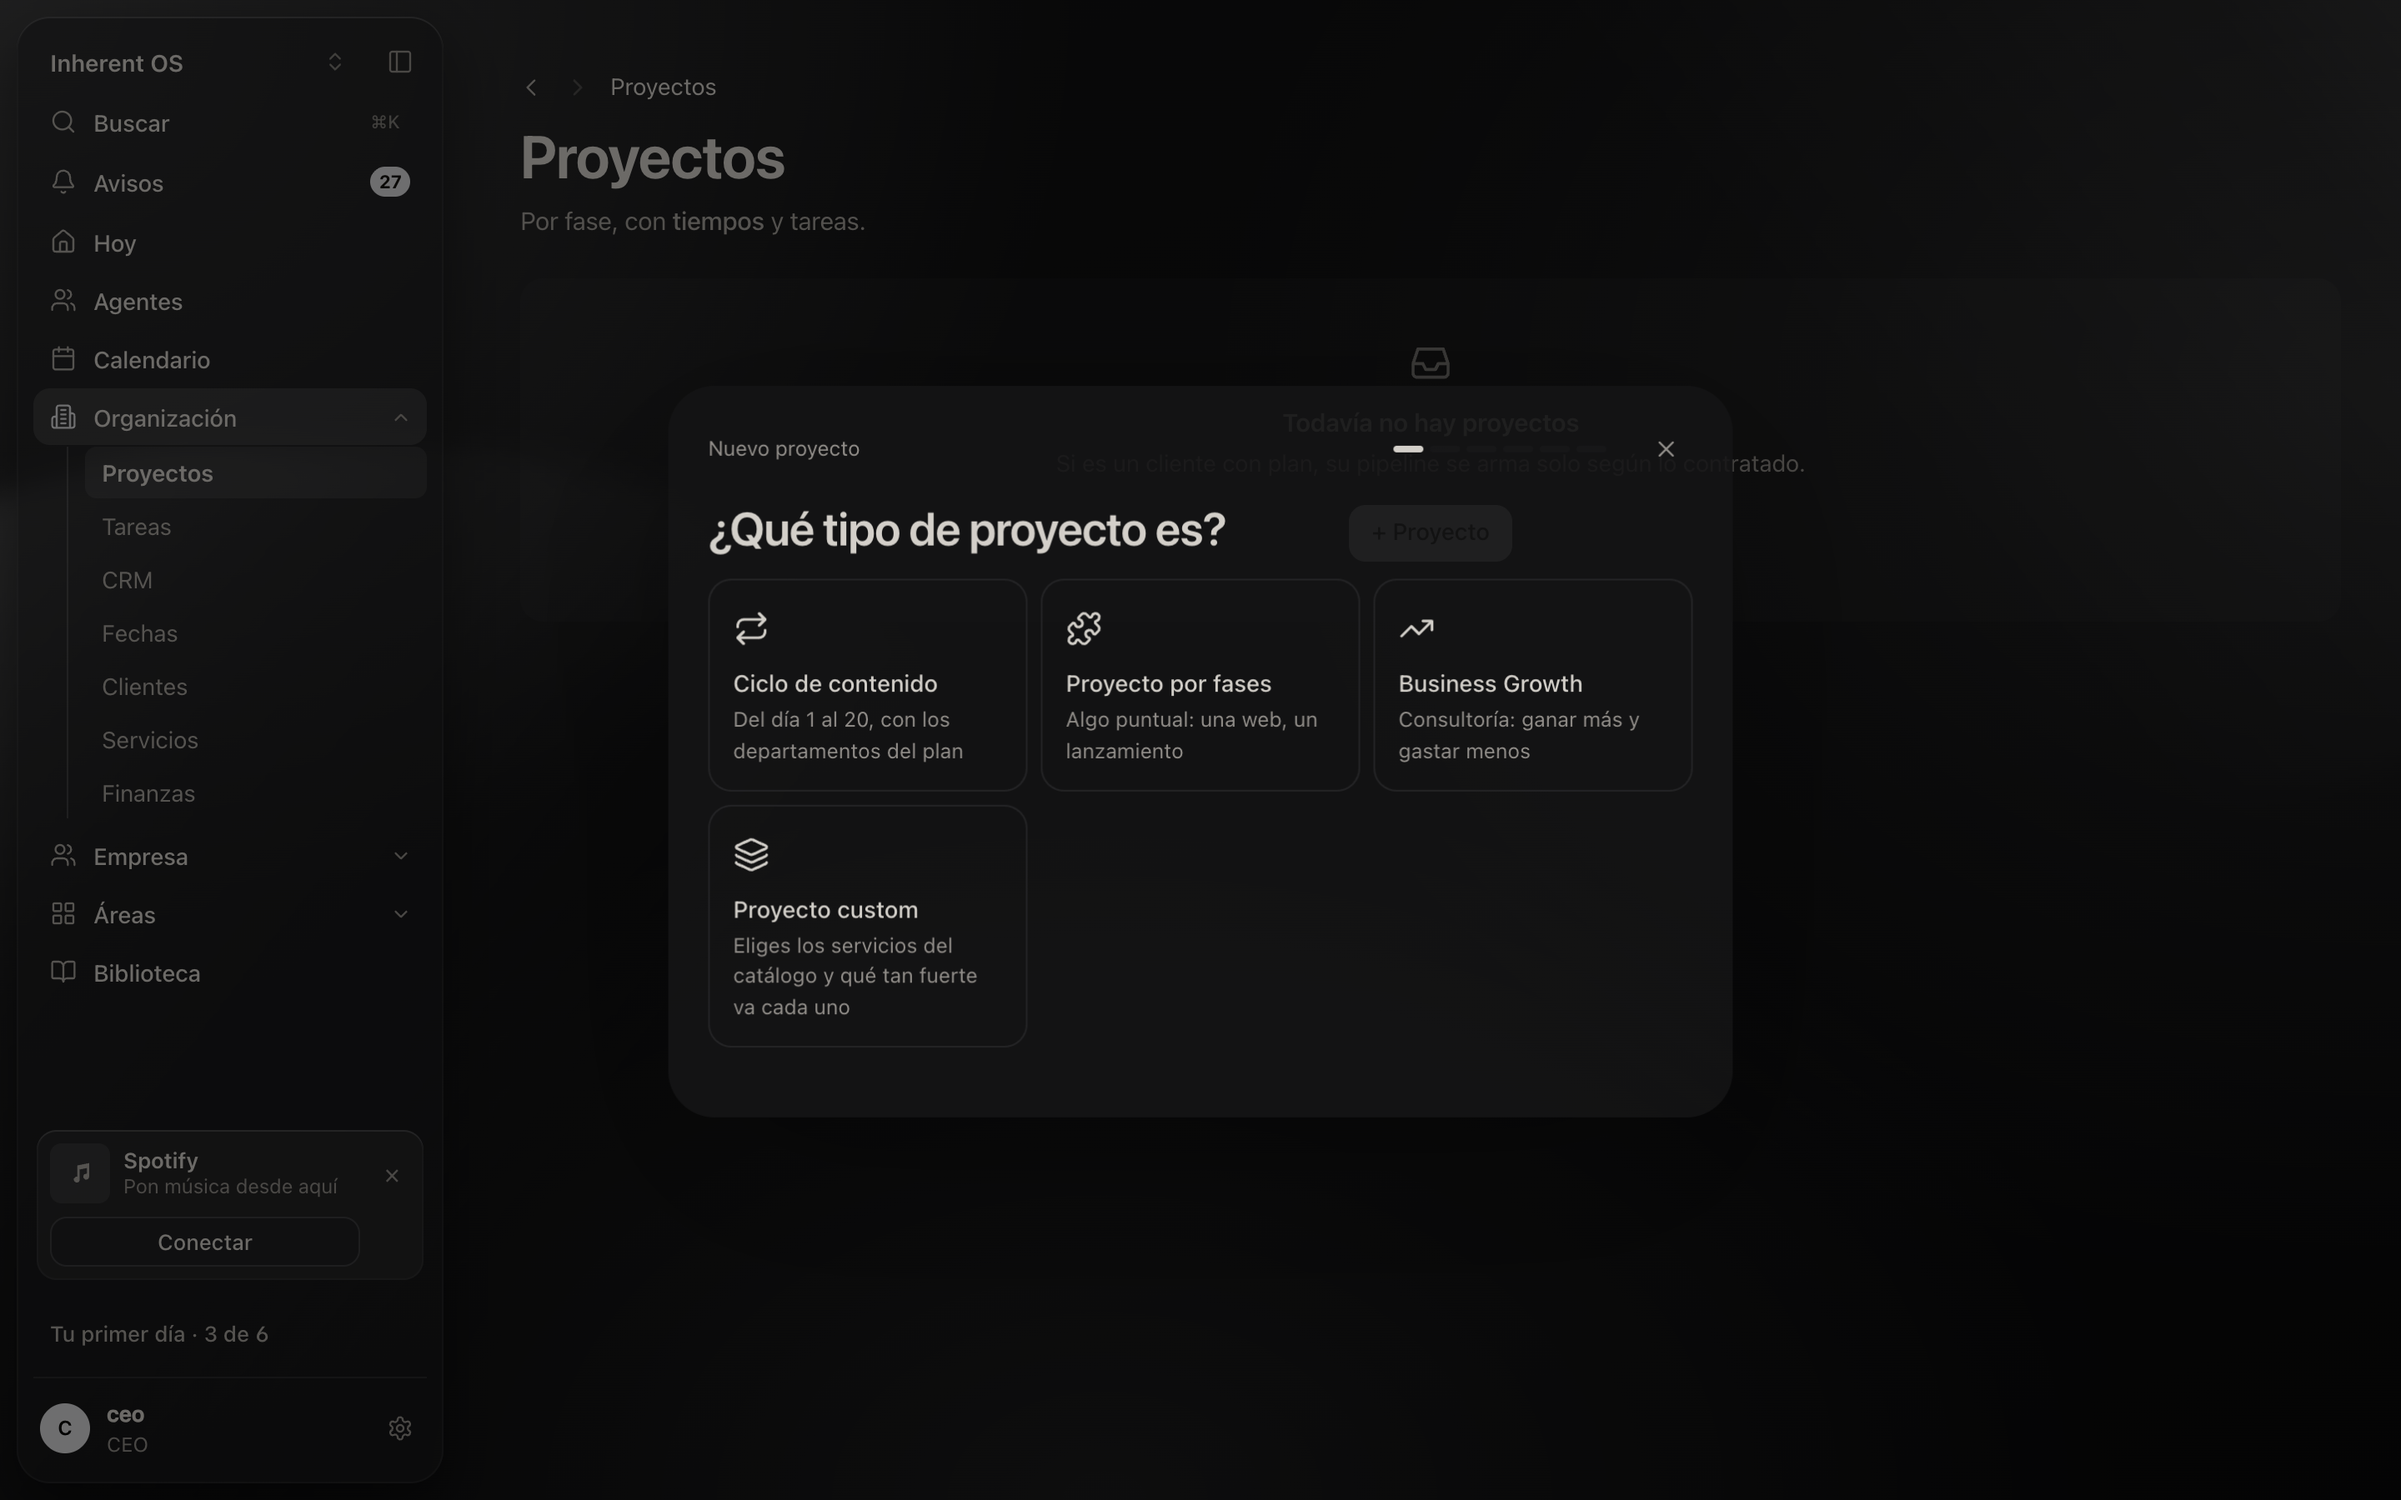
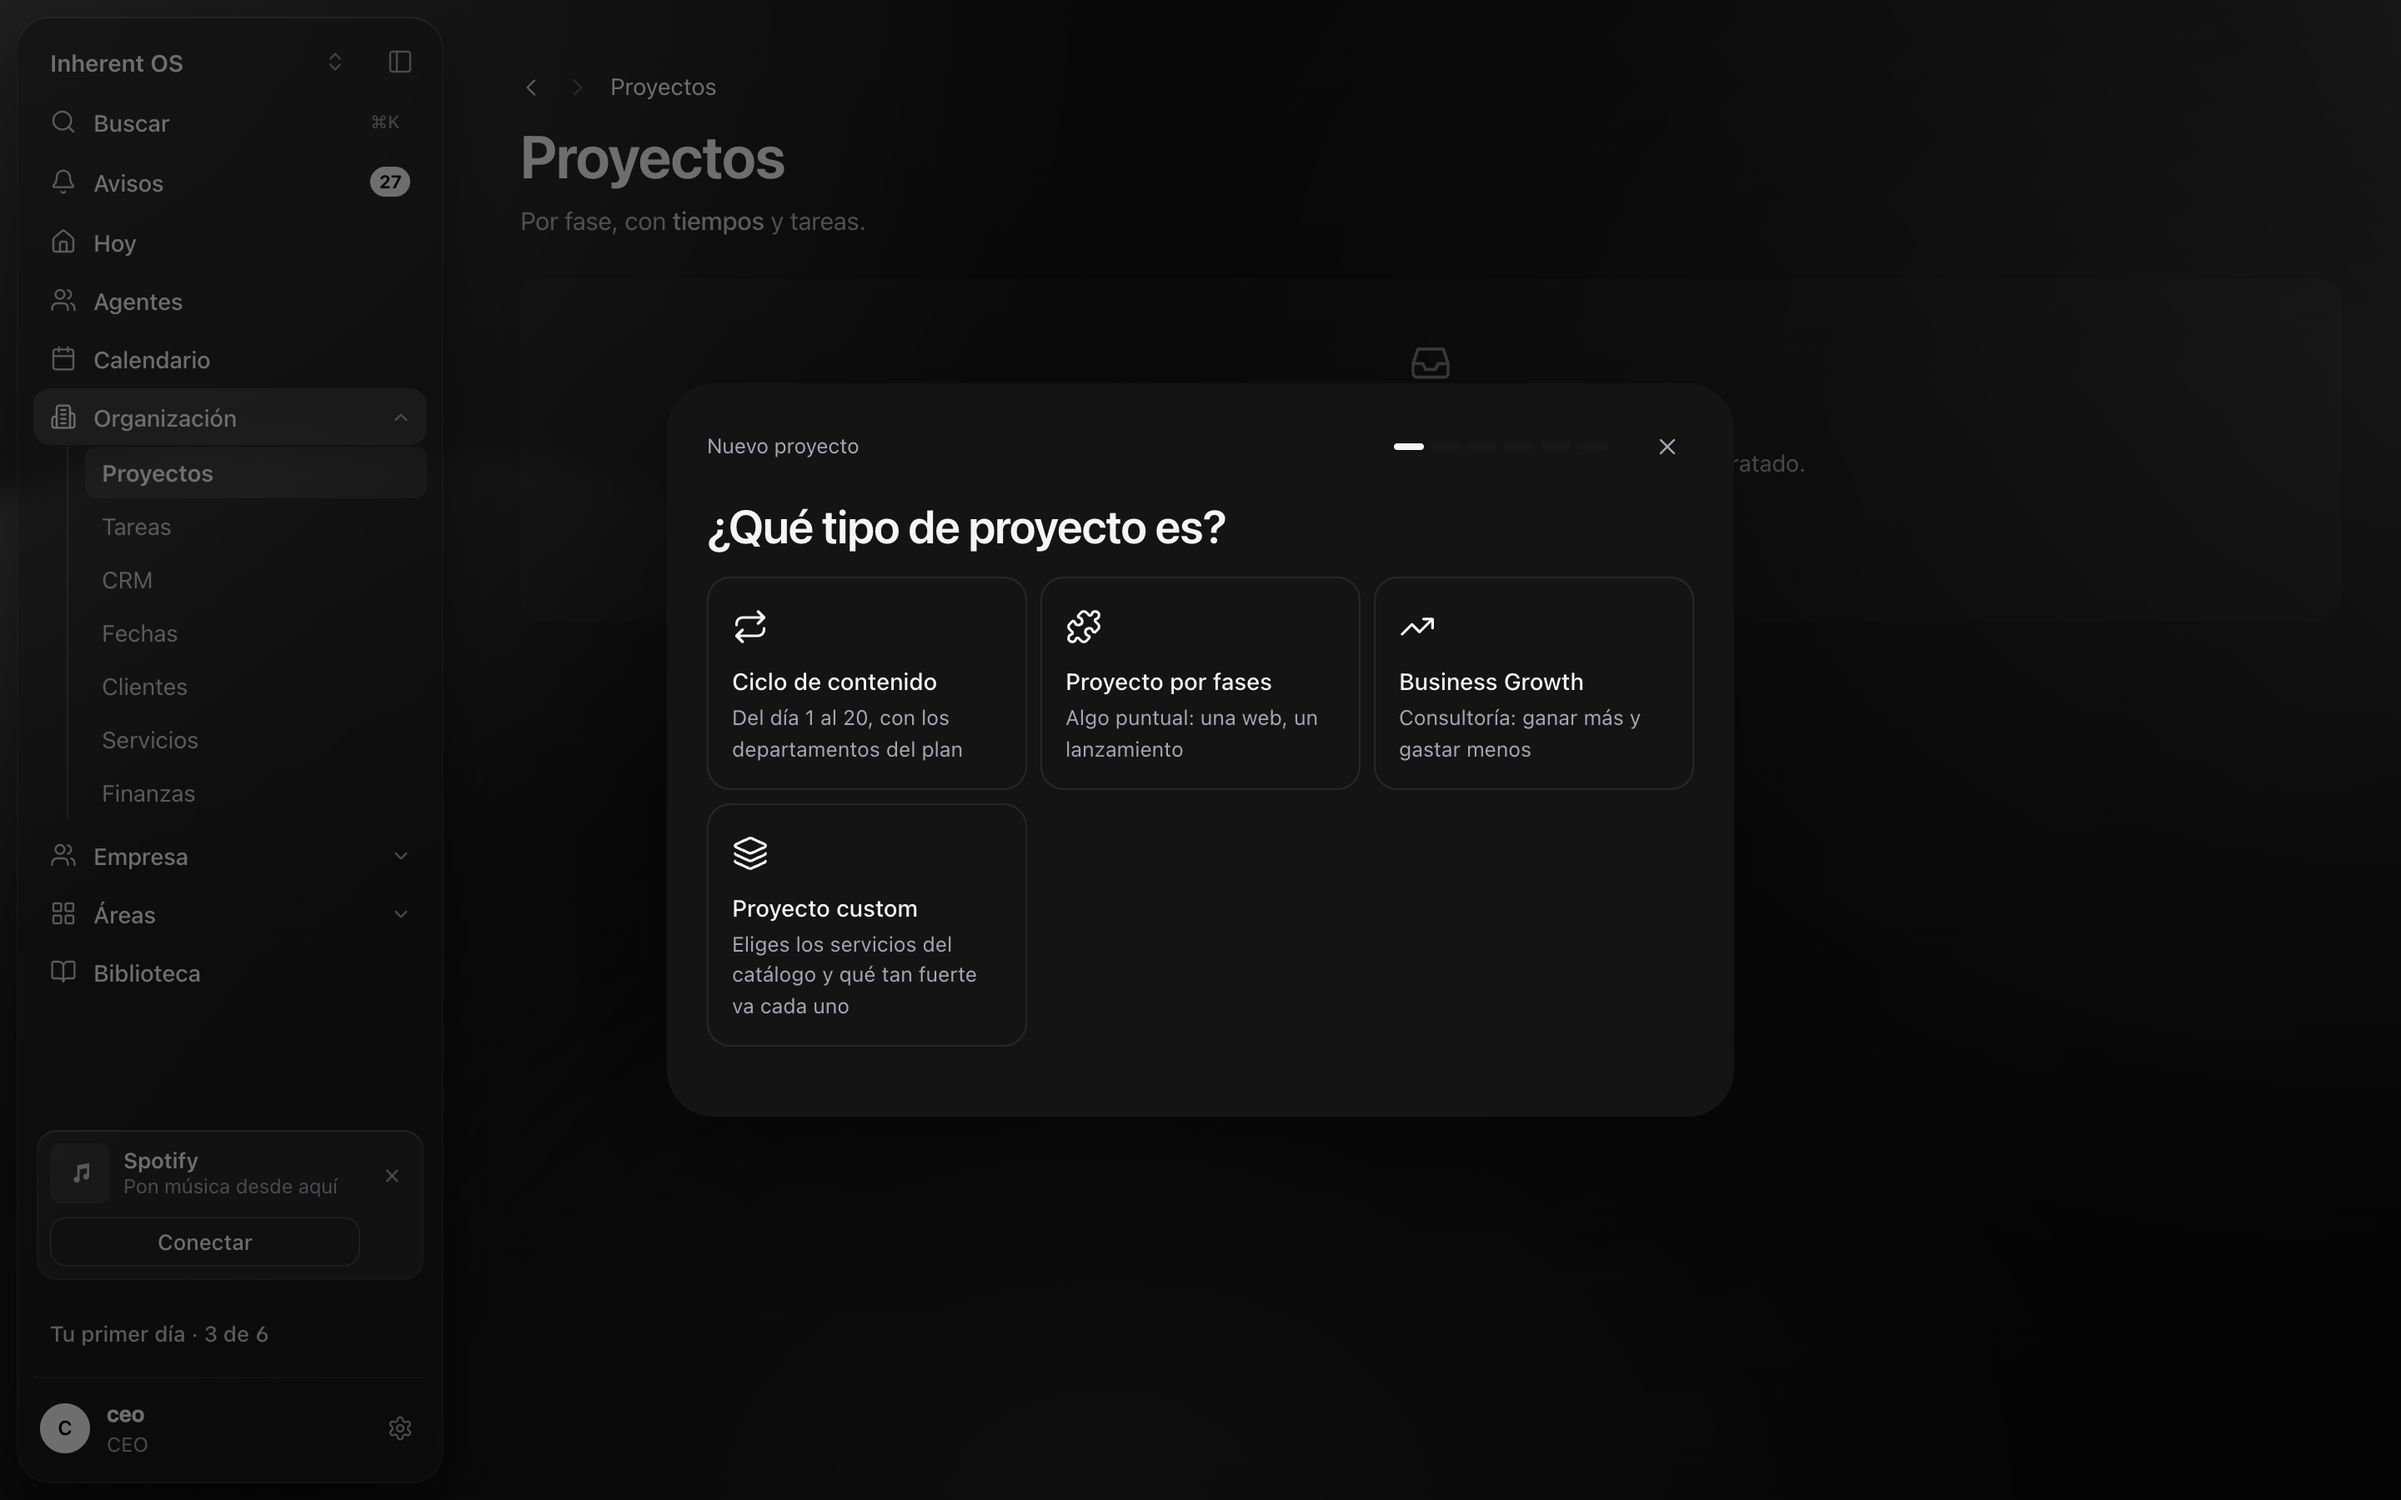
OS: enfriar tipografía y acentos nocturnos

diff --git a/ceo-os/public/primitives.css b/ceo-os/public/primitives.css
@@ -103,13 +103,13 @@
 :root[data-theme="dark"]{
   --ui-bg:#0d0d0e; --ui-side:#111112; --ui-surf:#141415; --ui-surf2:#1b1b1d; --ui-fill:#18181a; --ui-fill2:#232325;
   --ui-line:rgb(235 235 240 / .09); --ui-line2:rgb(235 235 240 / .16);
-  --ui-ink:#efebe4; --ui-ink2:#bdb9b2; --ui-mut:#a39f9a; --ui-mut2:#8f8b86; --ui-acc:#f5f5f7; --ui-acc-ink:#000000; --ui-user:#252527;
+  --ui-ink:#f5f5f7; --ui-ink2:#c9c9ce; --ui-mut:#a6a6ad; --ui-mut2:#929299; --ui-acc:#f5f5f7; --ui-acc-ink:#000000; --ui-user:#252527;
   --ui-ok:#a7f3d0; --ui-warn:#e8c98f; --ui-bad:#f4b3a6;
-  --ui-glass:rgb(30 30 32 / .52); --ui-ink-rgb:239 235 228; --ui-surf-rgb:20 20 21;
+  --ui-glass:rgb(30 30 32 / .52); --ui-ink-rgb:245 245 247; --ui-surf-rgb:20 20 21;
   --ui-sh-1:0 0 0 1px var(--ui-line);
   --ui-sh-2:0 0 0 1px var(--ui-line),0 14px 30px rgb(0 0 0 / .36);
   --ui-sh-3:inset 0 1px 0 rgb(255 255 255 / .13),inset 0 0 0 1px rgb(255 255 255 / .055),0 18px 44px rgb(0 0 0 / .5);
-  --ui-m-estrategia:#e3d8c5; --ui-m-organizacion:#bdb9b2; --ui-m-diseno:#efebe4;
+  --ui-m-estrategia:#c7c7cc; --ui-m-organizacion:#b8b8be; --ui-m-diseno:#d8d8de;
 }
 /* app.css:4406 */
 :root,:root[data-theme="dark"]{
